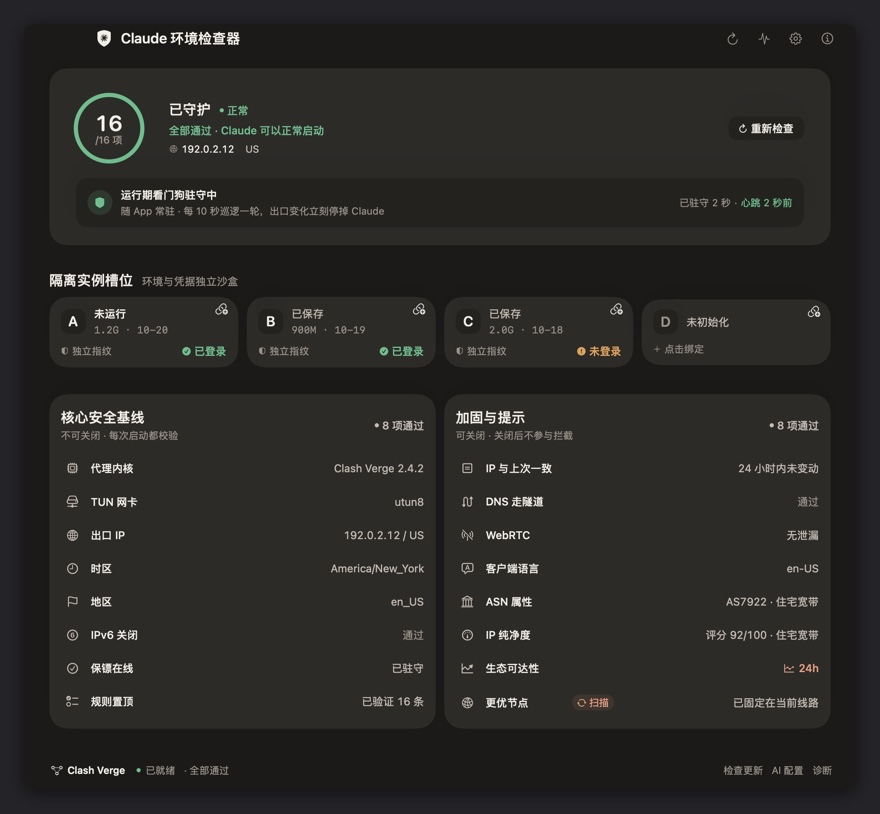
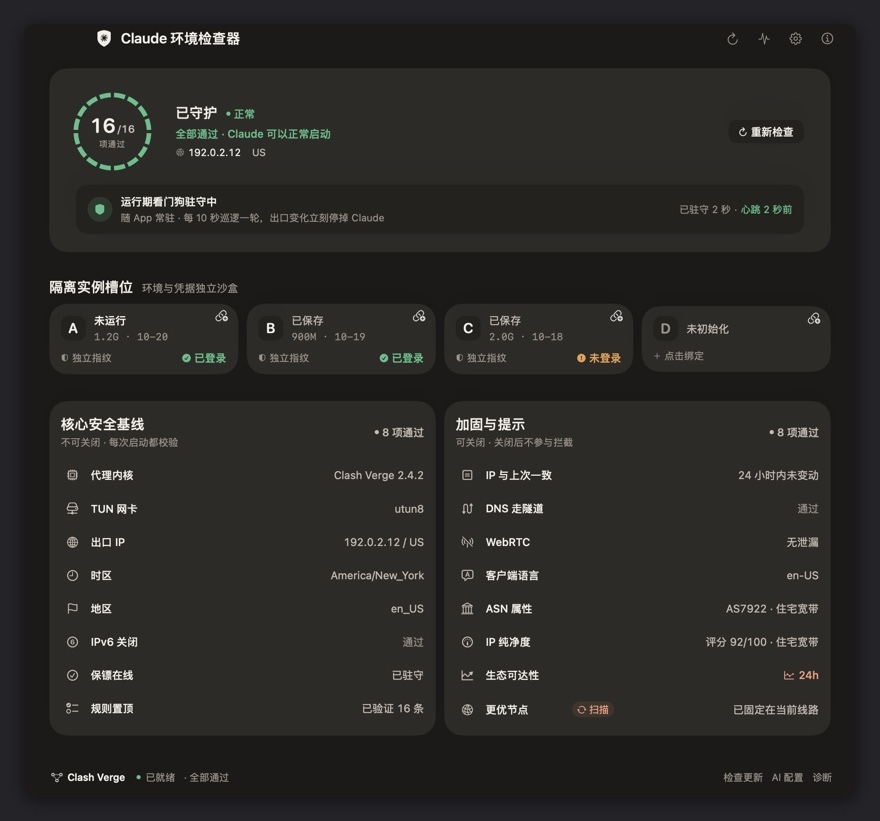
feat(ui): 圆环改成「一段一项」,重做数字层级——换成离散计数该有的画法
用户原话(2026-11-06):「检查圆环这里的显示,请你优化,现在的这个不行,你多找找好的案例」。

**旧画法的问题**(截图逐条验过):
- 环内是「16」+「/16 项」两行,两个 16 挨着、斜杠贴着分母往下沉,先解析一次才知道
  哪个是通过数;
- 80pt 环上 5pt 描边 + 26pt 数字,数字几乎顶到环壁,上下留白不均(上多下无);
- 第二行 11pt 太轻,读起来像脚注;
- 满环时连续进度弧本身没有信息量,只剩装饰。

**改成什么**:16 段弧,一段一项,段缝 2.5°,每段颜色取该项自己的状态
(过=绿 / 提示=琥珀 / 不合格=红 / 跳过未跑=浅灰)。中心 24pt 的「16」+ 12.5pt 的
「/16」+ 10pt 的「项通过」,分母用中间那档灰(8.8:1)而不是最浅的 faint(4.6:1)。
环径 80 → 88。

**为什么**:「X of N」是离散计数,连续弧在 15/16 时只差 6%,眼睛看不出少了一项 ——
等于把「哪一项没过」这个信息扔掉;分段是把分母直接画出来。这也是同类组件的通行
做法(Mantine 的 RingProgress 就是 sections + sectionGap、按段着色)。数字排版按
KPI 卡的比例:值与分母约 2:1、同色降饱和。段缝试过 4°/3°/2.5°:4° 起散成虚线、
读着像「加载中」,2.5° 还能看出分段又不散。

**连带**:
- 删掉 healthRingProgress / healthRingColor(一段一项之后没有引用者);分数现在
  连「进不进得来」这个自由度都没了,段色只由行状态决定。
- tests/test_hero_semantics.py:新增「一段一项」「段色取自行状态」两条,并把环内
  文字的断言改成 /总项数 + 项通过。负例对照:拿 0a05f59 的 main.swift 跑,
  这三条全红,其余三条(分数/配色/量级)绿。
- README 中英、AGENTS 改写圆环口径,补「为什么分段而不是连续弧」。
- docs 三张演示图按新环重拍。

测试:506 通过;swiftc -warnings-as-errors 零警告;release-check 门禁通过。

diff --git a/app/main.swift b/app/main.swift
@@ -2985,55 +2985,82 @@ struct ContentView: View {
         vm.rows.filter { $0.state == .ok }.count
     }
 
-    private var healthRingProgress: CGFloat {
-        if vm.rows.contains(where: { $0.state == .pending }) && vm.phase == .checking { return 0 }
-        guard !vm.rows.isEmpty else { return 0 }
-        return CGFloat(passedCount) / CGFloat(vm.rows.count)
-    }
-
-    private var healthRingColor: Color {
-        // 颜色只回答「能不能启动」。以前按分数分档（≥85 绿 / 60–84 琥珀 / <60 红），
-        // 于是「IP 纯净度偏低、分数掉到 80、徽章明明写着可以启动」这一屏里，
-        // 环套的是琥珀色 —— 两句话互相打架，用户只会记住「环是橙的，不行了」。
-        // 2026-11-06 用户原话：「不要用分数让别人误会，IP 非常不干净按道理还是能启动」。
-        // 分数是 IP 信誉的宽口径度量，和「能否启动」本来就会背离（README 里写着
-        // 65 分的代理会被硬门槛排除、49 分的机房反而可用），不该拿它当红绿灯。
-        healthSummary.color
-    }
+    // 这里原本还有两个辅助属性：healthRingProgress（满环比例）与 healthRingColor
+    // （整圈一个颜色，按 HealthSummary.Level 取）。改成一段一项之后它们都没有引用者了：
+    // 进度不再是「一圈走多少」，而是 16 段各自的颜色；环的颜色也不再是一个值。
+    // healthRingColor 存在的唯一理由是「别按分数染色」，而现在连这个自由度都没了 ——
+    // 每一段的颜色只由那一项自己的状态决定，分数根本进不来。
 
     /// 圆环 + 通过项数。这里**不显示分数**。
     ///
     /// 分数是一个「软信号加权」的合成分，而这一屏真正要回答的只有一件事：
-    /// 现在能不能启动 Claude。把两者塞进同一个 80pt 的数字里，必然误导 ——
+    /// 现在能不能启动 Claude。把两者塞进同一个数字里必然误导 ——
     /// 实测场景：IP 纯净度 49 分（转租机房），徽章写「可以启动」，
     /// 环里却是「80 分」配一圈琥珀色，用户只会得出「不能用了」。
-    /// 现在环里是「15/16 项」，环的颜色只跟能不能启动走。
+    ///
+    /// 画法是**一段一项**：16 段弧，段间留 2.5° 缝，每段的颜色取该项自己的状态。
+    /// 为什么不画一条连续的进度弧 —— 「X of N」是离散计数，连续弧在 15/16 时
+    /// 只差 6%，眼睛根本看不出少了一项，等于把「哪一项没过」这个信息扔掉；
+    /// 分段则是把「N 项」这个分母直接画出来。这也是同类组件的通行做法
+    /// （Mantine 的 RingProgress 就是 sections + sectionGap，按段着色）。
+    ///
+    /// 数字排版按 KPI 卡的通行比例：值与分母约 2:1，分母同色但降饱和。
+    /// 旧版是「16」+「/16 项」两行，两个 16 挨着、斜杠贴着分母往下沉，
+    /// 读起来得先解析一次才知道哪个是通过数。
     private var healthRing: some View {
-        ZStack {
-            Circle()
-                .stroke(ClaudeTheme.hairline, lineWidth: 5)
-            Circle()
-                .trim(from: 0, to: healthRingProgress)
-                .stroke(healthRingColor, style: StrokeStyle(lineWidth: 5, lineCap: .round))
-                .rotationEffect(.degrees(-90))
-                .animation(.easeInOut(duration: Motion.emphasis), value: healthRingProgress)
+        let total = CGFloat(max(vm.rows.count, 1))
+        return ZStack {
+            ForEach(vm.rows.indices, id: \.self) { i in
+                Circle()
+                    .trim(from: CGFloat(i) / total + Self.ringGap,
+                          to: CGFloat(i + 1) / total - Self.ringGap)
+                    .stroke(ringStateColor(vm.rows[i].state),
+                            style: StrokeStyle(lineWidth: 5.5, lineCap: .butt))
+                    .rotationEffect(.degrees(-90))
+                    .animation(.easeInOut(duration: Motion.emphasis), value: vm.rows[i].state)
+            }
             if heroBusy {
                 ProgressView().scaleEffect(0.6)
             } else {
-                VStack(spacing: -2) {
-                    Text("\(passedCount)")
-                        .font(Type.heroNumberFont)
-                        .monospacedDigit()
-                        .foregroundColor(ClaudeTheme.ink)
-                        .contentTransition(.numericText())
-                    Text("/\(vm.rows.count) 项")
-                        .font(Type.microLabelFont)
+                VStack(spacing: 0) {
+                    HStack(alignment: .firstTextBaseline, spacing: 1.5) {
+                        Text("\(passedCount)")
+                            .font(.system(size: 24, weight: .semibold, design: .rounded))
+                            .monospacedDigit()
+                            .foregroundColor(ClaudeTheme.ink)
+                            .contentTransition(.numericText())
+                        Text("/\(vm.rows.count)")
+                            .font(.system(size: 12.5, weight: .medium, design: .rounded))
+                            .monospacedDigit()
+                            // 分母用中间那一档灰（8.8:1），不用最浅的 faint（4.6:1）：
+                            // 12.5pt 下 faint 太浅，扫一眼会读成「16」而不是「16/16」。
+                            .foregroundColor(ClaudeTheme.muted)
+                    }
+                    Text("项通过")
+                        .font(.system(size: 10, weight: .medium))
+                        .tracking(0.8)
                         .foregroundColor(ClaudeTheme.faint)
+                        .padding(.top, 2)
                 }
             }
         }
-        .frame(width: 80, height: 80)
+        .frame(width: 88, height: 88)
         .accessibilityLabel("\(vm.rows.count) 项中 \(passedCount) 项通过，\(heroVerdict.text)")
+    }
+
+    /// 段间缝隙占整圈的比例：2.5° ≈ 0.00694。
+    /// 试过 4°/3°/2.5°：4° 起就散成虚线（读着像「加载中」），2.5° 还能看出分段又不散。
+    private static let ringGap: CGFloat = 2.5 / 360
+
+    /// 一段的颜色 = 这一项自己的状态，和分数无关。
+    /// 过=绿、提示=琥珀、不合格=红、跳过/未跑=浅灰（留着位置，说明「有这一项」）。
+    private func ringStateColor(_ state: RowState) -> Color {
+        switch state {
+        case .ok: return ClaudeTheme.ok
+        case .warn: return ClaudeTheme.warn
+        case .fail, .config: return ClaudeTheme.bad
+        case .skip, .pending: return ClaudeTheme.hairline
+        }
     }
 
     /// 状态徽章:标题右边的小标签。

diff --git a/tests/test_hero_semantics.py b/tests/test_hero_semantics.py
@@ -7,9 +7,9 @@
 于是出现过一屏两句话互相打架 —— 徽章写「可以启动」，环套琥珀色、里面写「80 分」，
 因为 IP 纯净度低把总分拖到了 84 以下。用户读到的只有颜色和数字。
 
-现在圆环里是「通过项数 / 总项数」，环的颜色只跟 `HealthSummary.Level`
-（ok / notice / cannotStart）走。分数仍然在 `HealthSummary.score` 里算着
-（诊断与排序要用），但它不许回到主视觉。
+现在圆环里是「通过项数 / 总项数」，而且是**一段一项**：16 段弧，每段的颜色
+取那一项自己的状态（绿 / 琥珀 / 红 / 浅灰）。分数仍然在 `HealthSummary.score`
+里算着（诊断与排序要用），但它不许回到主视觉。
 
 这几条都是「有人顺手改回去就会立刻红」的静态断言，因为它们约束的是
 **界面语义**，不是某个函数的返回值 —— 单测跑不出「颜色让人误会」。
@@ -65,18 +65,32 @@ class HeroSemanticsTests(unittest.TestCase):
     def test_ring_shows_passed_count_not_score(self):
         """圆环里的文字是通过项数，且不带「分」字。"""
         ring = block(self.code, "private var healthRing: some View {",
-                     "private var heroBadge: some View {")
+                     "private static let ringGap")
         self.assertIn("passedCount", ring, "圆环要显示通过项数")
-        self.assertIn(r'Text("/\(vm.rows.count) 项")', ring,
-                      "圆环第二行应是「/总项数 项」")
+        self.assertIn('Text("/\\(vm.rows.count)")', ring,
+                      "分母应是「/总项数」")
+        self.assertIn('"项通过"', ring, "要有单位字「项通过」")
         self.assertNotIn('"分"', ring, "圆环里不许再出现「分」这个字")
 
-    def test_ring_color_comes_from_level(self):
-        """环的颜色跟着结论走，不自己算一遍分数。"""
-        ring_color = block(self.code, "private var healthRingColor: Color {",
-                           "private var healthRing: some View {")
-        self.assertIn("healthSummary.color", ring_color,
-                      "环色应直接取 healthSummary.color")
+    def test_ring_is_one_segment_per_check(self):
+        """一段一项：分段数必须等于行数，不能写死成固定刻度。
+
+        连续进度弧在 15/16 时只差 6%，看不出少了一项 —— 那正是这一版换掉它的原因。
+        """
+        ring = block(self.code, "private var healthRing: some View {",
+                     "private static let ringGap")
+        self.assertIn("vm.rows.indices", ring, "每一段要从 vm.rows 里来")
+        self.assertIn("ringStateColor(vm.rows[i].state)", ring,
+                      "每段的颜色要取那一项自己的状态")
+
+    def test_segment_color_comes_from_item_state(self):
+        """每段颜色只看该项状态，分数进不来。"""
+        color = block(self.code, "private func ringStateColor(_ state: RowState) -> Color {",
+                      "private var heroBadge: some View {")
+        self.assertIn("switch state", color, "按行状态分派颜色")
+        self.assertNotIn("score", color, "分段颜色不许看分数")
+        for state in (".ok", ".warn", ".fail", ".skip"):
+            self.assertIn(state, color, f"{state} 要有明确颜色")
 
     def test_purity_magnitude_is_labelled_as_percent(self):
         """结论里带纯净度量级时必须写成 0-100 的参照分，不能裸写「49 分」。"""

diff --git a/AGENTS.md b/AGENTS.md
@@ -103,7 +103,9 @@
 
 **不要把「可关闭」摆到主界面上**：16 项默认全部拦启动，按能不能关分组会让人以为「有些可以不拦」，等于把降级当选项推荐。主界面只列一份清单；关闭入口只在设置页的「降级防护（不推荐）」里。关掉之后必须持续可见——主界面常驻橙色「防护已降级：…」，`check` 输出追加 `|防护降级:…`，否则命令行、日志、自动化这些看不到界面的地方完全无从判断。
 
-**首页不要拿分数当红绿灯**（2026-11-06 用户原话：「不要用分数让别人误会，IP 非常不干净按道理还是能启动」）。`HealthSummary.score` 是四维加权的合成分，只用于诊断与排序，不进主视觉：圆环里是「通过项数 / 总项数」，圆环颜色只跟 `HealthSummary.Level`（ok / notice / cannotStart）走。曾经有过 `scoreColor`（≥85 绿、60–84 琥珀、<60 红），后果是「IP 纯净度偏低 → 分数掉到 80 → 整圈变琥珀」而徽章明明写着「可以启动」，一屏两句话互相打架，用户只记住颜色，于是把「能启动」读成「快不行了」。同理，同一屏不要出现两处通过数（圆环一处就够，右边原本还有一句「13/15 项通过」）。分数与能否启动本来就会背离 —— README 里那句「65 分的代理会被硬门槛排除、49 分的机房反而可用」就是这个意思 —— 拿它当红绿灯等于把结论建立在软信号上。
+**首页不要拿分数当红绿灯**（2026-11-06 用户原话：「不要用分数让别人误会，IP 非常不干净按道理还是能启动」）。`HealthSummary.score` 是四维加权的合成分，只用于诊断与排序，不进主视觉：圆环里是「通过项数 / 总项数」，而且**一段一项** —— 16 段弧、段缝 2.5°，每段的颜色取那一项自己的状态（绿 / 琥珀 / 红 / 浅灰），所以「哪一项没过」在环上就能指出来。曾经有过 `scoreColor`（≥85 绿、60–84 琥珀、<60 红），后果是「IP 纯净度偏低 → 分数掉到 80 → 整圈变琥珀」而徽章明明写着「可以启动」，一屏两句话互相打架，用户只记住颜色，于是把「能启动」读成「快不行了」。同理，同一屏不要出现两处通过数（圆环一处就够，右边原本还有一句「13/15 项通过」）。分数与能否启动本来就会背离 —— README 里那句「65 分的代理会被硬门槛排除、49 分的机房反而可用」就是这个意思 —— 拿它当红绿灯等于把结论建立在软信号上。
+
+**为什么是分段而不是一条连续进度弧**（2026-11-06 用户原话：「检查圆环这里的显示……现在的这个不行，你多找找好的案例」）。连续弧在 15/16 时只差 6%，眼睛看不出少了一项，等于把「哪一项没过」这个信息扔掉；分段是把分母直接画出来（同类组件 Mantine 的 `RingProgress` 就是 sections + sectionGap、按段着色）。段缝试过 4°/3°/2.5°：4° 起就散成虚线、读着像「加载中」，2.5° 还能看出分段又不散。环内数字按 KPI 卡通行比例：值 24pt、分母 12.5pt（约 2:1），分母用中间那档灰（8.8:1）而不是最浅的 faint（4.6:1）—— 12pt 下 faint 太浅，扫一眼会读成「16」而不是「16/16」。`tests/test_hero_semantics.py` 把这五条钉住了（分数不许进环、必须一段一项、段色取自行状态、分量级要写 `/100`、不许出现「分」）。
 
 出口身份归一：`IP一致` 与 48h 变化统计都不直接比原始地址，而是比归一身份——v4 原样，v6 取 `/64` 前缀。`lastip` 按协议族各存一行，两族互不覆盖；历史统计先按族去重再取最大值。这样同一节点双栈交替（先报 v4 再报 v6、或 v6 在同一 /64 内换接口标识）不会被判成「出口在漂移」或「IP 变了」。旧版写下的裸地址在读取时自动迁移，升级后第一次检查不会误报。`出口IP` 走 v6 时**不再**额外标注「IPv6 出口」——冒号地址本身已说明协议族，补这一句反而容易让用户误以为自己开了本机 IPv6。三条相关行各说各的层，不要合并：`IPv6` 查本机网卡（出口是 v6 时写「本机已关闭 · 节点出口为 IPv6」）；`出口IP` 报节点侧对 Cloudflare 呈现的地址；`WebRTC` 的 STUN 探针只走 v4，无 v4 出口时写「节点无 IPv4 出口，STUN 只回 IPv4，无法比对(非泄漏)」。
 

diff --git a/README.md b/README.md
@@ -63,7 +63,7 @@
 
 ## 重点能力
 
-- **四维加权评分**：身份 / 隔离 / 一致 / 守护四个维度，用来诊断和排序。首页**不显示这个分**——圆环里是「通过项数 / 总项数」，颜色只回答「能不能启动」。分数低不等于起不来：IP 纯净度偏低会让分掉下来，但它只是软信号，照样能启动。
+- **四维加权评分**：身份 / 隔离 / 一致 / 守护四个维度，用来诊断和排序。首页**不显示这个分**——圆环是 16 段，一段一项：通过的是绿的，没过的那一段自己变色，所以「哪一项没过」不用再去下面一行行找。分数低不等于起不来：IP 纯净度偏低会让分掉下来，但它只是软信号，照样能启动。
 - **IP 纯净度**：四源交叉（ipquery / ip-api / ipinfo / stopforumspam）+ 本地 PTR，类型基线减分；机房只给警告，代理特征与 Tor 才拦启动。
 - **节点扫描与应用**：只读扫描当前控路 Selector 的候选节点并排名；「应用最优节点」只在门禁允许时出现，按下时实时复核门禁、切后复查出口国家，任一步不达标自动回滚。细节见 [AGENTS.md](AGENTS.md)。
 - **一槽一套环境**：切 A–D 时连同 Claude Code 的 `~/.claude/` 与 `~/.claude.json` 一起换，桌面版和终端不再共用同一份登录态。槽位卡上的 `CLI` 角标表示这个槽位也存了终端状态。

diff --git a/README.en.md b/README.en.md
@@ -65,7 +65,9 @@ repository, command-line script, and build artifact name.
 - **IP purity score** — an explainable 0–100 score from four independent data
   sources plus local PTR, with degraded verdicts when sources are unreachable.
   A low score is a soft signal: it never decides whether Claude can start, so
-  the home screen shows passed-check counts instead of an overall score.
+  the home screen shows passed-check counts instead of an overall score — one
+  arc segment per check, colored by that check's own state, so a single failed
+  item is visible at a glance instead of costing 6% of a continuous ring.
 - **Node scan and gated apply** — read-only ranking of the current Selector's
   candidate nodes; applying the best node requires a fresh real-time gate,
   re-checks the exit country, and rolls back on any failed step.
